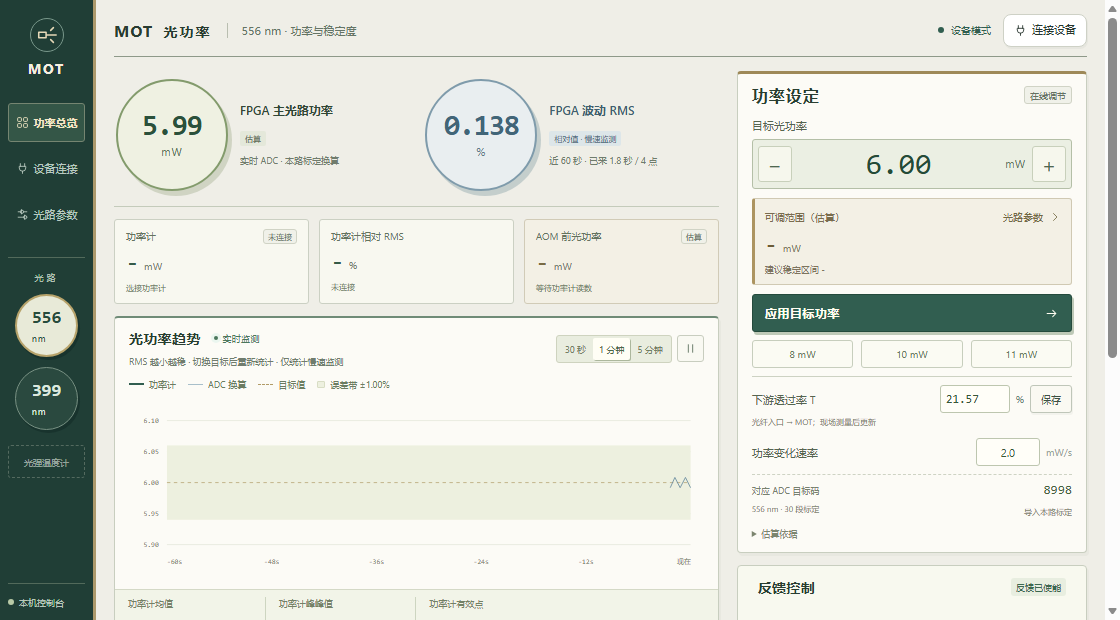
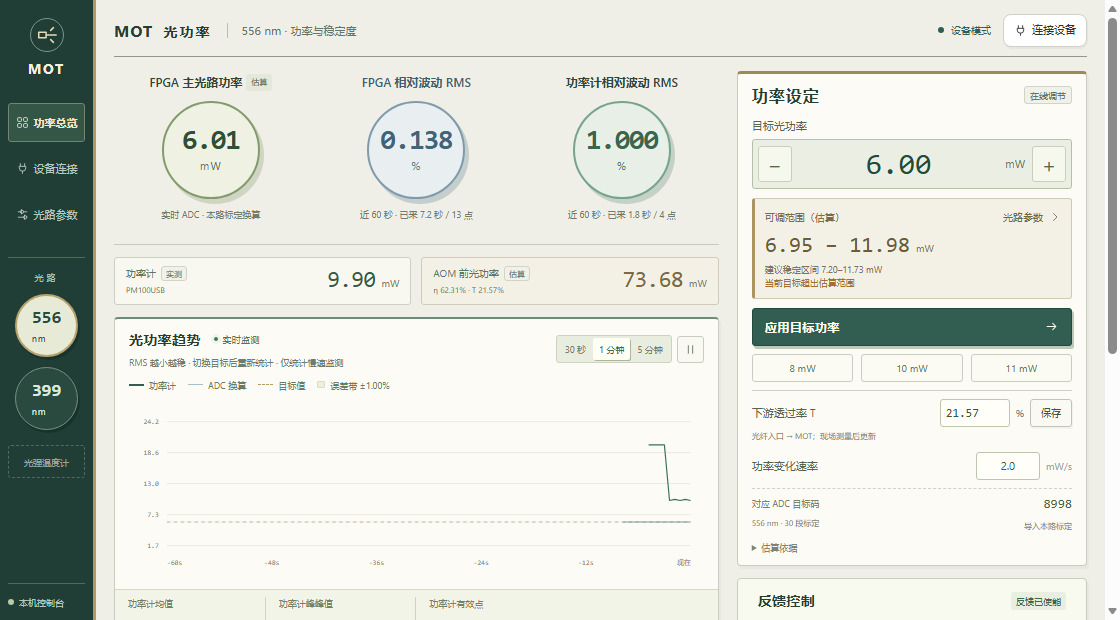
Show both independent stability RMS readings prominently in the first row

diff --git a/styles.css b/styles.css
@@ -157,25 +157,25 @@ input,select{color:var(--ink)}
 .card-heading .subtle{color:#6e7e6b}
 
 /* Circular numeric faces echo the reference without suggesting a gauge scale. */
-.primary-metrics{display:grid;grid-template-columns:repeat(2,minmax(0,1fr));gap:14px;padding:6px 0 10px;border-bottom:1px solid #c4cbbb}
-.primary-metrics .metric{min-width:0;display:grid;grid-template-columns:112px minmax(0,1fr);align-items:center;gap:12px;padding:2px 2px 5px;background:transparent;border:0;border-radius:0;box-shadow:none}
-.primary-metrics .instrument-dial{width:112px;height:112px;min-width:0;display:flex;flex-direction:column;align-items:center;justify-content:center;gap:4px;margin:0;border:2px solid #839b6c;border-radius:50%;background:#eff1e2;color:#2b513b;box-shadow:4px 5px 0 #a3ad8e66;line-height:1;font-family:Consolas,'Cascadia Mono',monospace;letter-spacing:-1px;font-size:29px;font-weight:600}
+.primary-metrics{display:grid;grid-template-columns:repeat(3,minmax(0,1fr));gap:12px;padding:0 0 9px;border-bottom:1px solid #c4cbbb}
+.primary-metrics .metric{min-width:0;display:flex;flex-direction:column;align-items:center;gap:8px;padding:2px 0 0;background:transparent;border:0;border-radius:0;box-shadow:none;text-align:center}
+.primary-metrics .instrument-dial{width:98px;height:98px;min-width:0;display:flex;flex-direction:column;align-items:center;justify-content:center;gap:4px;margin:0;border:2px solid #839b6c;border-radius:50%;background:#eff1e2;color:#2b513b;box-shadow:4px 5px 0 #a3ad8e66;line-height:1;font-family:Consolas,'Cascadia Mono',monospace;letter-spacing:-1px;font-size:28px;font-weight:600}
 .primary-metrics .instrument-dial>span:last-child{font:11px 'Segoe UI',sans-serif;letter-spacing:1px;color:#617456}
 .primary-metrics .stability-primary .instrument-dial{border-color:#7f9bab;background:#e9eef0;color:#416578;box-shadow:4px 5px 0 #849da666}
 .primary-metrics .stability-primary .instrument-dial>span:last-child{color:#5b7988}
-.dial-description{min-width:0}
-.primary-metrics .metric-label{display:block;margin:0 0 7px;white-space:normal;font-size:12px;line-height:1.6;font-weight:600;color:#314736}
+.primary-metrics .metric-label{display:flex;align-items:center;justify-content:center;flex-wrap:wrap;gap:4px;margin:0;min-height:20px;white-space:normal;font-size:12px;line-height:1.6;font-weight:600;color:#314736}
 .primary-metrics .stability-primary .metric-label{color:#415f70}
-.primary-metrics .metric-foot{display:block;white-space:normal;line-height:1.7;font-size:9px;color:#707c6d;margin-top:7px}
+.primary-metrics .metric-foot{display:block;white-space:normal;line-height:1.5;font-size:9px;color:#707c6d;margin:1px 0 0;min-height:27px}
 .primary-metrics .tiny-tag{display:inline-block;font-size:8px;background:#e4e8da;border:0;border-radius:2px;padding:2px 5px;color:#586b50}
 .primary-metrics .stability-primary .tiny-tag{background:#dde6e9;color:#4d6a7b}
+.primary-metrics .stability-meter .instrument-dial{border-color:#75a38b;background:#e8efe7;color:#38664e;box-shadow:4px 5px 0 #88a59266}
 
-.auxiliary-metrics{gap:10px}
-.auxiliary-metrics .metric{padding:9px 11px;border:1px solid #cbd0c3;border-radius:3px;background:#f8f8f0;box-shadow:none}
-.auxiliary-metrics .metric-value{font:23px Consolas,monospace;letter-spacing:-.6px;margin-top:6px;line-height:1.15;color:#355b48}
+.auxiliary-metrics{grid-template-columns:repeat(2,minmax(0,1fr));gap:10px}
+.auxiliary-metrics .metric{display:grid;grid-template-columns:minmax(0,1fr) auto;grid-template-rows:auto auto;gap:3px 8px;padding:8px 11px;border:1px solid #cbd0c3;border-radius:3px;background:#f8f8f0;box-shadow:none;align-items:center}
+.auxiliary-metrics .metric-value{grid-column:2;grid-row:1 / 3;font:23px Consolas,monospace;letter-spacing:-.6px;margin:0;line-height:1.15;color:#355b48}
 .auxiliary-metrics .metric-value>span:last-child{font:10px 'Segoe UI',sans-serif;letter-spacing:0;color:#75806e}
-.auxiliary-metrics .metric-label{font-size:10px;color:#65735f}
-.auxiliary-metrics .metric-foot{font-size:8px;white-space:normal;line-height:1.5;margin-top:6px;min-height:12px;color:#6e7b66}
+.auxiliary-metrics .metric-label{grid-column:1;grid-row:1;font-size:10px;color:#65735f;justify-content:flex-start;gap:5px;flex-wrap:wrap}
+.auxiliary-metrics .metric-foot{grid-column:1;grid-row:2;font-size:8px;white-space:normal;line-height:1.5;margin:0;min-height:12px;color:#6e7b66}
 .auxiliary-metrics .metric:last-child{background:#f3f0e5;border-color:#d1cbb7}
 .auxiliary-metrics .metric:last-child .metric-value{color:#796b44}
 .auxiliary-metrics .tiny-tag{font-size:8px;padding:1px 4px}
@@ -250,14 +250,14 @@ dialog::backdrop{background:#182e2960}
 
 @media(min-width:1400px){
   main{padding:18px 24px 0}.dashboard-grid{gap:22px}
-  .primary-metrics .metric{grid-template-columns:128px minmax(0,1fr);gap:17px}
-  .primary-metrics .instrument-dial{width:128px;height:128px;font-size:34px}
+  .primary-metrics .metric{gap:9px}
+  .primary-metrics .instrument-dial{width:112px;height:112px;font-size:32px}
   .primary-metrics .metric-label{font-size:14px}.primary-metrics .metric-foot{font-size:10px}
 }
 @media(min-width:901px) and (max-width:1080px){
   .primary-metrics{gap:8px}
-  .primary-metrics .metric{grid-template-columns:96px minmax(0,1fr);gap:9px}
-  .primary-metrics .instrument-dial{width:96px;height:96px;font-size:26px}
+  .primary-metrics .metric{gap:7px}
+  .primary-metrics .instrument-dial{width:90px;height:90px;font-size:26px}
   .primary-metrics .metric-label{font-size:11px}
   .primary-metrics .tiny-tag{font-size:8px;padding:1px 3px}
 }
@@ -268,8 +268,8 @@ dialog::backdrop{background:#182e2960}
   .sidebar-channels{margin-top:18px}.sidebar-channels .channel-tab{width:57px;height:57px}
   .sidebar-channels .reserved{height:33px}.sidebar-channels .reserved strong{font-size:8px}
   .dashboard-grid{grid-template-columns:1fr}.control-column{order:-1;display:flex;flex-direction:column}
-  .sidebar-bottom{font-size:8px}.primary-metrics .metric{grid-template-columns:104px minmax(0,1fr);gap:10px}
-  .primary-metrics .instrument-dial{width:104px;height:104px;font-size:28px}
+  .sidebar-bottom{font-size:8px}.primary-metrics .metric{gap:8px}
+  .primary-metrics .instrument-dial{width:96px;height:96px;font-size:27px}
 }
 @media(max-width:600px){
   main{padding:10px 10px 0}.sidebar{width:68px;padding:13px 5px}.shell{margin-left:68px}
@@ -280,14 +280,15 @@ dialog::backdrop{background:#182e2960}
   .mode-notice{gap:8px;padding-bottom:8px;margin-bottom:10px}.mode-notice .console-title{font-size:14px;letter-spacing:0}
   .console-title span,#notice-text{display:none}.intro-actions{gap:7px;margin-top:0}
   .mode-notice .button{padding:6px 8px;font-size:10px}.mode-pill{font-size:9px}
-  .primary-metrics{gap:10px}.primary-metrics .metric{display:flex;flex-direction:column;align-items:center;gap:10px;text-align:center;padding:2px 0}
-  .primary-metrics .instrument-dial{width:104px;height:104px;font-size:28px}
-  .primary-metrics .metric-label{font-size:11px;margin-bottom:5px}.primary-metrics .metric-foot{font-size:8px;line-height:1.5}
-  .primary-metrics .tiny-tag{font-size:8px}.primary-metrics .metric-foot{margin-top:5px}
-  .auxiliary-metrics .metric:last-child{display:flex;align-items:center;justify-content:space-between;padding:9px 11px}
+  .primary-metrics{gap:7px}.primary-metrics .metric{gap:8px;padding:2px 0}
+  .primary-metrics .instrument-dial{width:76px;height:76px;font-size:21px}
+  .primary-metrics .metric-label{font-size:10px;min-height:34px;margin:0}.primary-metrics .metric-foot{font-size:8px;line-height:1.5;margin:1px 0 0}
+  .primary-metrics .tiny-tag{font-size:8px}
+  .auxiliary-metrics{grid-template-columns:1fr}
+  .auxiliary-metrics .metric:last-child{display:grid;grid-column:auto;align-items:center;padding:8px 11px}
   .auxiliary-metrics .metric:last-child .metric-label{font-size:10px;display:flex;gap:5px}
   .auxiliary-metrics .metric:last-child .metric-value{font-size:21px;margin:0}
-  .auxiliary-metrics .metric:last-child .metric-foot{display:none}
+  .auxiliary-metrics .metric:last-child .metric-foot{display:block}
   .setpoint-card form{padding-left:12px;padding-right:12px}.setpoint-card>.card-heading{padding-left:12px;padding-right:12px}
   .target-range-value strong{font-size:21px}.chart-legend{font-size:8px}
   dialog{padding:18px}.dialog-heading h2{font-size:18px}

diff --git a/index.html b/index.html
@@ -54,12 +54,12 @@
    <div class="dashboard-grid">
     <div class="main-column">
      <div class="primary-metrics">
-      <article class="metric target-metric"><div class="metric-value instrument-dial"><span id="fpga-power-metric">-</span><span>mW</span></div><div class="dial-description"><div class="metric-label">FPGA 主光路功率</div><span class="tiny-tag" id="fpga-power-tag">未连接</span><div class="metric-foot" id="fpga-power-foot">等待 FPGA 连接</div></div></article>
-      <article class="metric stability-primary"><div class="metric-value instrument-dial"><span id="fpga-rms">-</span><span>%</span></div><div class="dial-description"><div class="metric-label">FPGA 波动 RMS</div><span class="tiny-tag">相对值 · 慢速监测</span><div class="metric-foot" id="fpga-rms-note">采样中</div></div></article>
+      <article class="metric target-metric"><div class="metric-label">FPGA 主光路功率 <span class="tiny-tag" id="fpga-power-tag">未连接</span></div><div class="metric-value instrument-dial"><span id="fpga-power-metric">-</span><span>mW</span></div><div class="metric-foot" id="fpga-power-foot">等待 FPGA 连接</div></article>
+      <article class="metric stability-primary"><div class="metric-label">FPGA 相对波动 RMS</div><div class="metric-value instrument-dial"><span id="fpga-rms">-</span><span>%</span></div><div class="metric-foot" id="fpga-rms-note">采样中</div></article>
+      <article class="metric stability-meter"><div class="metric-label">功率计相对波动 RMS</div><div class="metric-value instrument-dial"><span id="meter-rms">-</span><span>%</span></div><div class="metric-foot" id="meter-rms-note">未连接</div></article>
      </div>
      <div class="metrics auxiliary-metrics">
       <article class="metric"><div class="metric-label">功率计 <span class="tiny-tag" id="meter-tag">未连接</span></div><div class="metric-value"><span id="power-metric">-</span><span>mW</span></div><div class="metric-foot" id="meter-foot">选接功率计</div></article>
-      <article class="metric stability-meter"><div class="metric-label">功率计相对 RMS</div><div class="metric-value"><span id="meter-rms">-</span><span>%</span></div><div class="metric-foot" id="meter-rms-note">未连接</div></article>
       <article class="metric"><div class="metric-label"><span id="upstream-label">等效入射功率</span> <span class="tiny-tag" id="upstream-tag">未校正</span></div><div class="metric-value"><span id="upstream-metric">-</span><span>mW</span></div><div class="metric-foot"><span id="upstream-note">需功率计与光路参数</span></div></article>
      </div>
 
